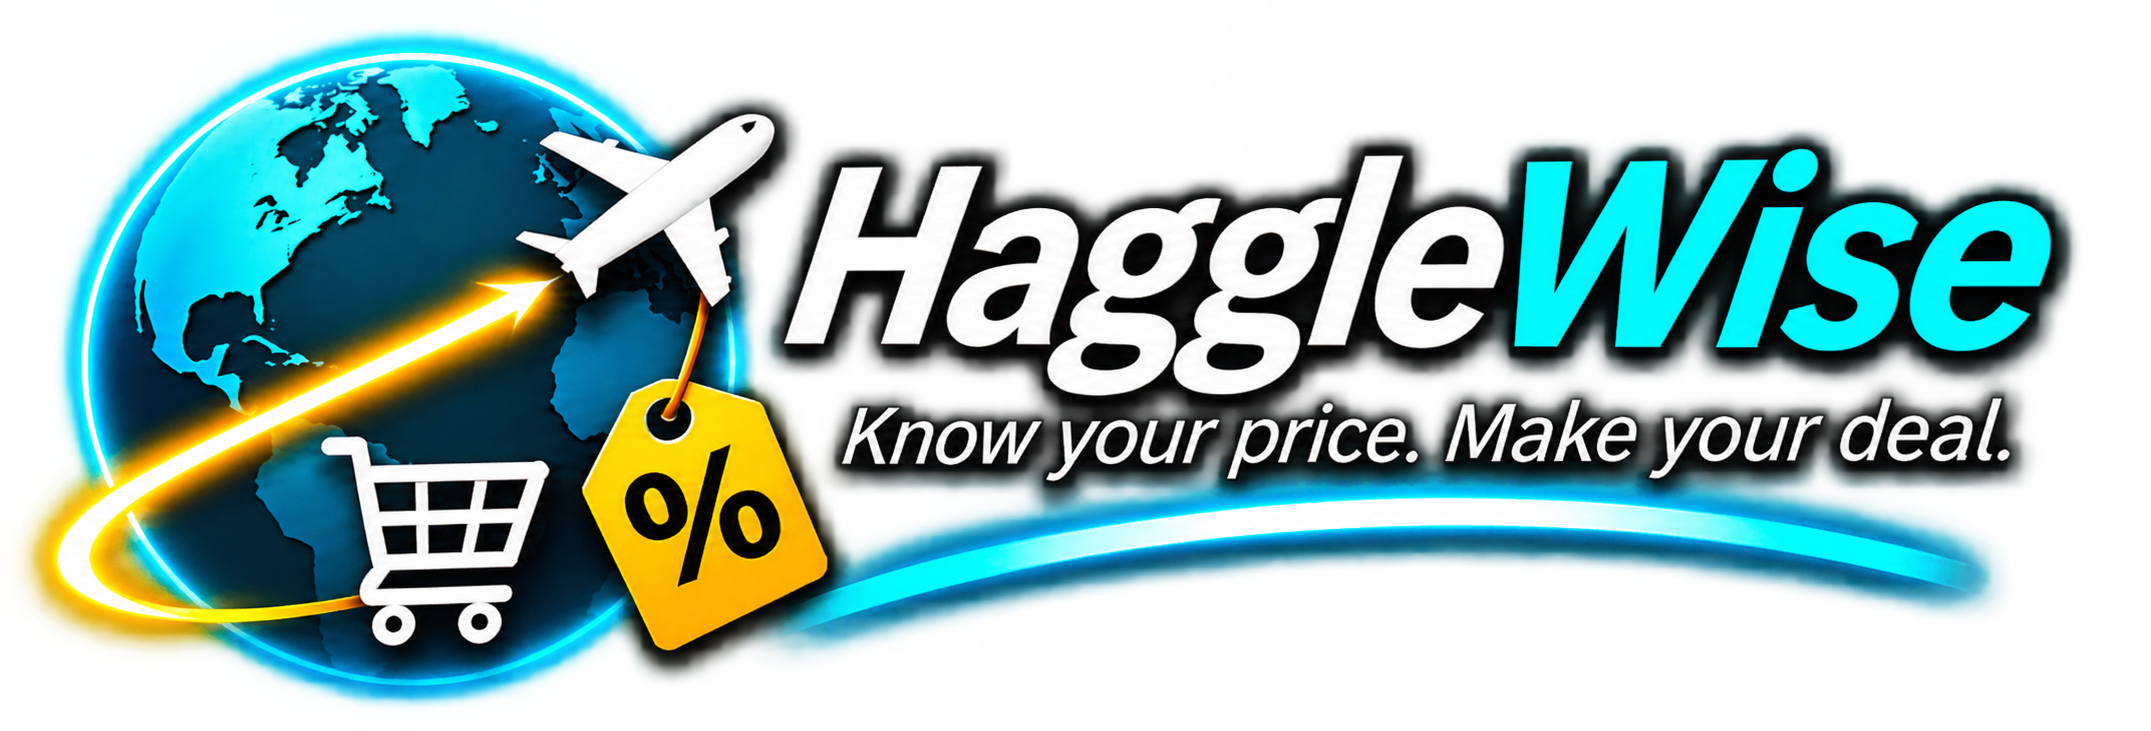
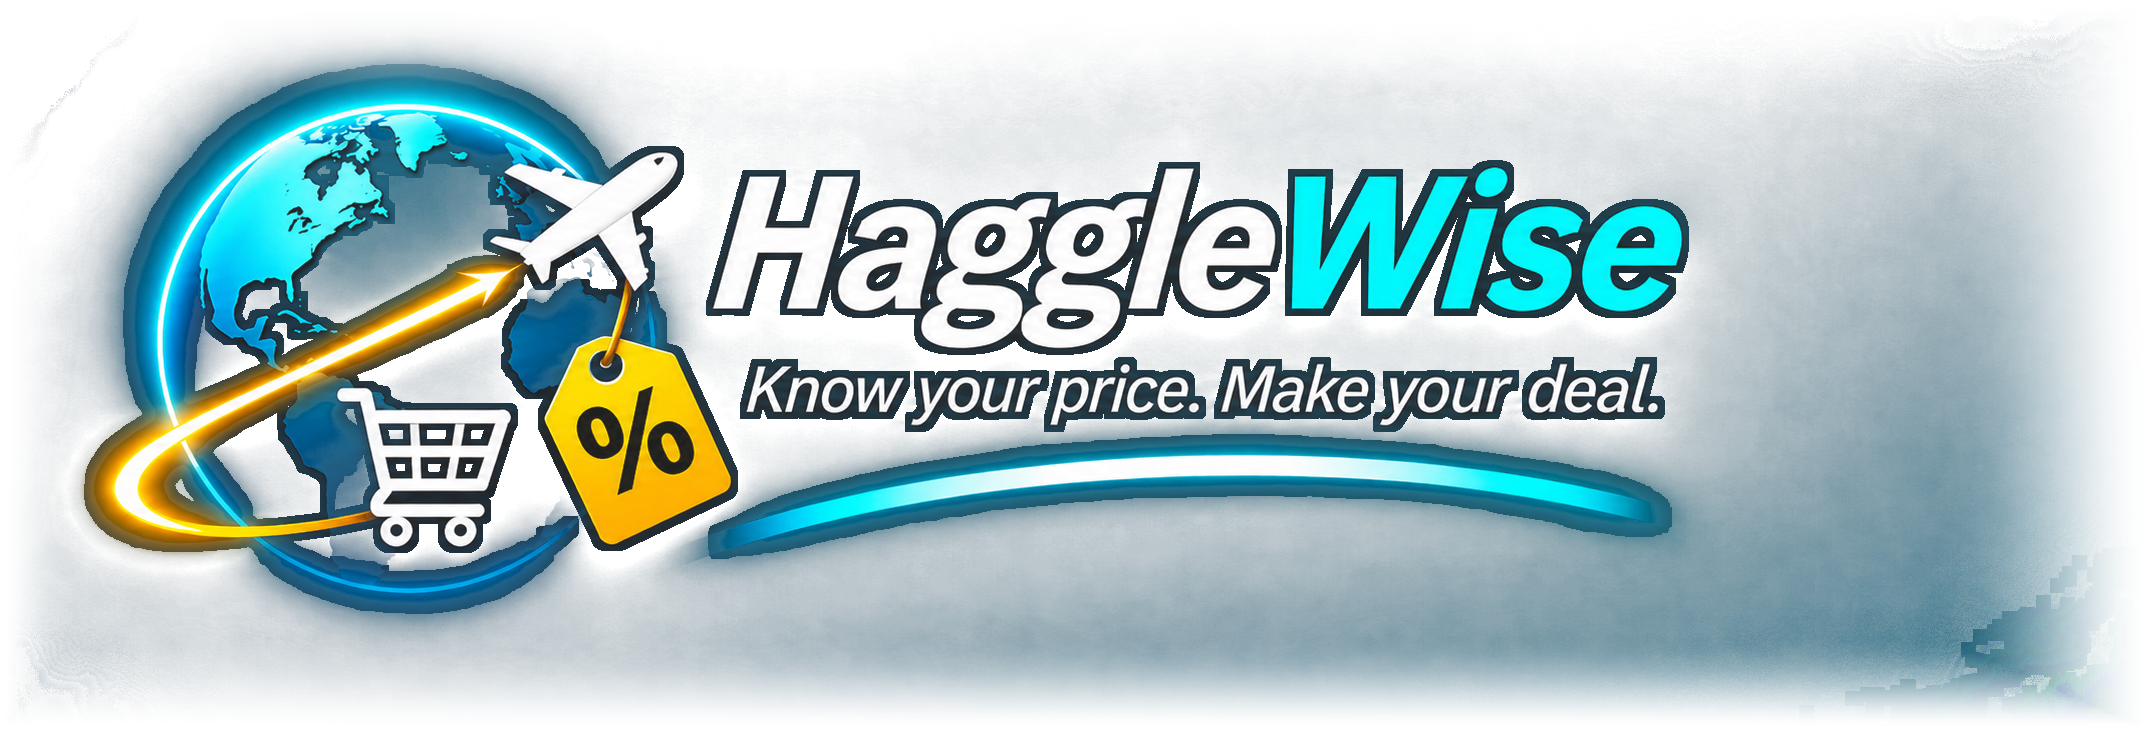
Add files via upload

diff --git a/index.html b/index.html
@@ -1,7 +1,7 @@
 <!doctype html><html lang="en"><head><meta charset="utf-8"><meta name="viewport" content="width=device-width,initial-scale=1,viewport-fit=cover"><meta name="theme-color" content="#061b34"><title>HaggleWise | Know your price. Make your deal.</title><meta name="description" content="HaggleWise helps you compare shop prices, haggle with confidence and convert currencies worldwide, even offline."><meta property="og:type" content="website"><meta property="og:title" content="HaggleWise"><meta property="og:description" content="Compare holiday shop prices, haggle with confidence and see what you spend at home. Works offline."><meta property="og:image" content="https://chriselliott369.github.io/HaggleWise/icon-512.png"><meta property="og:url" content="https://chriselliott369.github.io/HaggleWise/"><meta name="twitter:card" content="summary"><meta name="twitter:title" content="HaggleWise"><meta name="twitter:image" content="https://chriselliott369.github.io/HaggleWise/icon-512.png"><link rel="manifest" href="./manifest.webmanifest?v=1-2-4"><link rel="icon" href="./icon-192.png?v=1-2-4"><style>
 :root{font-family:system-ui,-apple-system,Segoe UI,sans-serif;color:#17324d;background:#f2f7fc}*{box-sizing:border-box}body{margin:0}.app{max-width:560px;margin:auto;padding:16px 15px 36px}header{background:linear-gradient(125deg,#123b61,#087b8a);color:white;border-radius:22px;padding:20px;box-shadow:0 8px 22px #123b6122}.head{display:flex;justify-content:space-between;align-items:center;gap:10px}h1{font-size:1.35rem;margin:0 0 4px}header p{margin:0;opacity:.9;font-size:.85rem}button,input{font:inherit}button{cursor:pointer;touch-action:manipulation}#share{background:#ffffff2b;color:white;border:1px solid #ffffff55;border-radius:12px;padding:10px 13px;font-weight:700;white-space:nowrap}.panel{background:white;border-radius:20px;margin-top:15px;padding:17px;box-shadow:0 4px 16px #1b46600c}.intro{font-size:.84rem;color:#567187;line-height:1.5;margin:0 0 12px}.currency-tabs{display:grid;grid-template-columns:repeat(3,minmax(0,1fr));gap:7px}.tab{border:2px solid transparent;background:#edf4f9;border-radius:14px;padding:9px 3px 10px;min-width:0;text-align:center}.tab.active{background:#dff7f0;border-color:#0d8d7d}.tab .role{display:block;font-size:.7rem;font-weight:800;line-height:1.3;min-height:28px}.tab .code{display:block;font-size:.93rem;font-weight:800;margin-top:3px}.choose{display:block;width:100%;border:0;background:#ffffffb5;border-radius:8px;padding:5px 2px;margin-top:6px;color:#176b75;font-size:.72rem;font-weight:700}.entry{background:#f1fbf8;border:1px solid #b4dcd2;border-radius:15px;padding:13px;margin-top:13px}.entry .eyebrow{font-size:.78rem;font-weight:800}.entry .big{font-size:2.1rem;font-weight:800;margin:7px 0;overflow-wrap:anywhere;font-variant-numeric:tabular-nums}.entry .hint{font-size:.77rem;color:#58758a}.result{display:grid;grid-template-columns:1fr 1fr;gap:9px;margin-top:11px}.result>div{border:1px solid #dce9f1;border-radius:12px;padding:10px;min-width:0}.result .name{font-size:.74rem;font-weight:750;color:#496a7d}.result .value{font-size:1.15rem;font-weight:800;overflow-wrap:anywhere;margin-top:5px}.keypad{display:grid;grid-template-columns:repeat(3,1fr);gap:8px;margin-top:13px}.keypad button{background:#eaf2f8;color:#17324d;border:0;border-radius:12px;padding:12px;min-height:48px;font-size:1.35rem;font-weight:750}.keypad .clear{background:#fff3d8;font-size:.94rem}.keypad .delete{background:#ffece7;font-size:.94rem}.small{font-size:.8rem;color:#567187;line-height:1.5}.actions{display:flex;gap:8px;flex-wrap:wrap}.actions button{border:0;border-radius:11px;background:#e5f4f2;color:#125a57;padding:11px 13px;font-weight:750}.actions button:disabled{opacity:.6}.rates summary{font-weight:750;cursor:pointer;padding:3px 0}.status{font-size:.81rem;color:#496a7d;line-height:1.5;margin:10px 0}.warn{background:#fff5df;color:#85551d;padding:12px;border-radius:11px;font-size:.8rem;line-height:1.45}.foot{text-align:center;font-size:.77rem;color:#60798b;margin:19px 0}.rate-row{display:grid;grid-template-columns:1fr 1fr;gap:10px;align-items:center;margin:10px 0}.rate-row input{width:100%;border:1px solid #a8c0d0;border-radius:10px;padding:10px}.rate-row label{font-size:.86rem;font-weight:650}.tiny{font-size:.75rem;color:#647f8e;line-height:1.45}.source a{color:#087b8a}dialog{width:min(94vw,430px);max-height:82vh;border:0;border-radius:18px;padding:16px;box-shadow:0 14px 45px #122c4655}dialog::backdrop{background:#0c253b99}.picker-head{display:flex;justify-content:space-between;align-items:center}.picker-head button{border:0;background:#eaf2f8;border-radius:8px;padding:8px 12px}#currencySearch{width:100%;border:1px solid #abc7d5;border-radius:10px;padding:12px;margin:12px 0;font-size:1rem}.currency-list{max-height:55vh;overflow:auto}.currency-list button{width:100%;text-align:left;padding:12px 8px;background:white;border:0;border-bottom:1px solid #e1eaf0;font-size:.94rem}.currency-list button:focus{background:#e5f4f2}
 .brand{display:flex;align-items:center;gap:10px;min-width:0}.brand-icon{width:64px;height:64px;object-fit:contain;border-radius:14px;flex-shrink:0}.brand h1{font-size:1.5rem;letter-spacing:-.03em}.brand p{font-size:.74rem;line-height:1.3}.head{align-items:center}#share{padding:10px 9px;font-size:.82rem}@media(max-width:370px){.brand-icon{width:52px;height:52px}.brand h1{font-size:1.25rem}.brand p{font-size:.68rem}} 
-/* v1.2.5: larger, readable header with a dedicated Share column */
+/* v1.2.6: larger, readable header with a dedicated Share column */
 .hero-header{
   display:flex!important;
   align-items:center!important;
@@ -32,6 +32,12 @@
   z-index:1;
 }
 
+
+/* v1.2.6: consistent currency labels and clearly illustrative placeholders */
+.hw-field-caption{display:inline-block;white-space:nowrap;max-width:100%;font-size:clamp(.75rem,3.1vw,.85rem)}
+.hw-field input::placeholder{color:#8a929a;opacity:1;font-weight:400}
+.hero-header{background:transparent!important;box-shadow:none!important}
+.hero-art-frame{background:transparent!important}
 </style><style>
 :root{background:#041e34}
 html{min-height:100%;background:#041e34}
@@ -103,16 +109,16 @@ body.hw-dark .hw-trip-details{background:#174653}
 <p class="tiny">Tap a currency button to choose which amount the keypad edits. Tap “Change” to select another currency. No phone keyboard needed.</p>
 </section>
 </div><dialog id="picker"><div class="picker-head"><strong>Choose a currency</strong><button id="closePicker" type="button">Close ✕</button></div><input id="currencySearch" placeholder="Search country, currency or code" autocomplete="off" aria-label="Search currencies"><div id="currencyList" class="currency-list"></div></dialog>
-<section id="hw-haggle" class="hw-page" hidden><div class="panel"><h2>Haggle calculator</h2><p class="hw-muted">Enter the asking price and what you actually paid, even in different currencies.</p><label class="hw-field">Asking price currency<select id="hagCurrency"></select></label><label class="hw-field">Asking price<input id="hagAsk" type="number" min="0" step="any" inputmode="decimal" placeholder="50"></label><label class="hw-field">Payment currency<select id="hagPayCurrency"></select></label><label class="hw-field">Agreed price<input id="hagDeal" type="number" min="0" step="any" inputmode="decimal" placeholder="35"></label><div class="hw-highlight" id="hagOutcome" aria-live="polite">Enter both prices to calculate your savings.</div><button class="hw-primary" id="hagRecord">Save this deal to history</button></div></section>
+<section id="hw-haggle" class="hw-page" hidden><div class="panel"><h2>Haggle calculator</h2><p class="hw-muted">Enter the asking price and what you actually paid, even in different currencies.</p><label class="hw-field">Asking price currency<select id="hagCurrency"></select></label><label class="hw-field">Asking price<input id="hagAsk" type="number" min="0" step="any" inputmode="decimal" placeholder="e.g. 50"></label><label class="hw-field">Payment currency<select id="hagPayCurrency"></select></label><label class="hw-field">Agreed price<input id="hagDeal" type="number" min="0" step="any" inputmode="decimal" placeholder="e.g. 35"></label><div class="hw-highlight" id="hagOutcome" aria-live="polite">Enter both prices to calculate your savings.</div><button class="hw-primary" id="hagRecord">Save this deal to history</button></div></section>
 <section id="hw-budget" class="hw-page" hidden><div class="panel"><h2>Holiday budget</h2><p class="hw-muted">Track spending in your holiday currency, with automatic conversion into your home currency. Purchases and top-ups are saved offline.</p><p id="activeTripLabel" class="hw-mini"></p>
-<label class="hw-field">Budget in home currency (<span class="hw-home-code">GBP</span>)<input id="budgetTotal" type="number" min="0" step="any" inputmode="decimal" placeholder="1000"></label>
+<label class="hw-field"><span class="hw-field-caption">Budget in home currency (<span class="hw-home-code">GBP</span>)</span><input id="budgetTotal" type="number" min="0" step="any" inputmode="decimal" placeholder="e.g. 1000"></label>
 <label class="hw-field">Spending currency<select id="budgetCurrency"></select></label><div class="hw-highlight" id="budgetSummary"></div>
-<h3>Add a purchase</h3><label class="hw-field">Category<select id="purchaseCategory"><option>Food</option><option>Drinks</option><option>Souvenirs</option><option>Clothes</option><option>Transport</option><option>Activities</option><option>Shopping</option><option>Other</option></select></label><label class="hw-field">What did you buy? (optional)<input id="purchaseName" maxlength="90" placeholder="e.g. Fridge magnet"></label><label class="hw-field">Amount spent (<span class="hw-spend-code">TRY</span>)<input id="purchaseAmount" type="number" min="0" step="any" inputmode="decimal" placeholder="1500"></label><p id="purchaseEstimate" class="hw-mini"></p><button class="hw-primary" id="purchaseAdd">Add purchase</button>
-<h3>Add more spending money</h3><div class="hw-row"><label class="hw-field">Top-up amount<input id="topupAmount" type="number" min="0" step="any" inputmode="decimal" placeholder="200"></label><label class="hw-field">Currency<select id="topupCurrency"></select></label></div><button id="topupAdd" class="hw-secondary">Add to budget</button>
+<h3>Add a purchase</h3><label class="hw-field">Category<select id="purchaseCategory"><option>Food</option><option>Drinks</option><option>Souvenirs</option><option>Clothes</option><option>Transport</option><option>Activities</option><option>Shopping</option><option>Other</option></select></label><label class="hw-field">What did you buy? (optional)<input id="purchaseName" maxlength="90" placeholder="e.g. Fridge magnet"></label><label class="hw-field"><span class="hw-field-caption">Amount spent (<span class="hw-spend-code">TRY</span>)</span><input id="purchaseAmount" type="number" min="0" step="any" inputmode="decimal" placeholder="e.g. 1500"></label><p id="purchaseEstimate" class="hw-mini"></p><button class="hw-primary" id="purchaseAdd">Add purchase</button>
+<h3>Add more spending money</h3><div class="hw-row"><label class="hw-field">Top-up amount<input id="topupAmount" type="number" min="0" step="any" inputmode="decimal" placeholder="e.g. 200"></label><label class="hw-field">Currency<select id="topupCurrency"></select></label></div><button id="topupAdd" class="hw-secondary">Add to budget</button>
 <h3>Purchases & top-ups</h3><ul class="hw-list" id="purchaseList"></ul><p class="hw-muted">Amounts use the saved exchange rate at the time of each purchase. Actual card or cash exchange rates may differ.</p></div></section>
 <section id="hw-history" class="hw-page" hidden><div class="panel"><h2>History</h2><p class="hw-muted">Conversions, saved haggles, purchases and budget top-ups, all in one place. Choose a filter to view or remove saved records. Purchases and top-ups also affect their holiday budgets.</p><button class="hw-primary" id="historySave">Save current conversion</button><label class="hw-field">Show<select id="historyFilter"><option value="all">All activity</option><option value="conversion">Conversions</option><option value="haggle">Haggles</option><option value="purchase">Purchases</option><option value="topup">Budget top-ups</option></select></label><ul class="hw-list" id="historyList"></ul><button class="hw-secondary" id="historyClear">Clear all activity</button></div></section>
 <section id="hw-more" class="hw-page" hidden><div class="panel"><h2>More & settings</h2><label class="hw-field">Appearance<select id="themeSelect"><option value="light">Light Mode</option><option value="dark">Dark Mode</option><option value="system">Phone Default</option></select></label><p id="networkStatus" class="hw-muted" role="status"></p><p id="rateMovement" class="hw-muted"></p><div class="hw-flex"><button id="copyAmount" class="hw-secondary">Copy current amount</button><button id="resetCalc" class="hw-secondary">Reset converter</button></div><div class="hw-flex" style="margin-top:10px"><button id="exportData" class="hw-secondary">Export backup</button><label class="hw-secondary" style="text-align:center;cursor:pointer">Import backup<input id="importData" type="file" accept="application/json,.json" style="display:none"></label></div><p class="hw-muted">Backups include saved settings, purchases and history. Keep your backup file somewhere safe. Import replaces saved data on this device.</p><button id="installBtn" class="hw-secondary" hidden>Install HaggleWise</button><button id="shareMore" class="hw-secondary">Share / QR code</button><h3>My holidays</h3><p class="hw-muted">Archive a holiday and start fresh without losing your past trips.</p><div id="tripList"></div><label class="hw-field">New holiday name<input id="newTripName" placeholder="e.g. Spain 2029" maxlength="65"></label><button id="newTripBtn" class="hw-primary">Archive current & start new holiday</button><div id="hw-rates-slot"></div></div></section><section class="panel rates" id="hw-rate-panel"><details><summary>⚙ Exchange rates and settings</summary><p class="small">Reference market rates refresh when you open the app online. You can also refresh manually or enter your own rates. Manual rates may be replaced on the next successful automatic refresh.</p><div id="manualRates"></div><label class="hw-field"><span><input type="checkbox" id="manualLock"> Keep my manual rates until I turn this off</span></label><div class="actions"><button type="button" id="saveRates">Save manual rates</button><button type="button" id="liveRates">🔄 Refresh live rates</button></div><p id="liveStatus" class="status" role="status" aria-live="polite"></p><p id="rateStatus" class="status" role="status"></p></details><p id="lastRefresh" class="status">🕒 Last successful refresh: not yet recorded</p><p id="marketDate" class="status">📅 Market date: not yet recorded</p>
-<p class="status source">📡 Rate source: <a href="https://frankfurter.dev/" target="_blank" rel="noopener noreferrer">Frankfurter</a> (reference exchange rates). Manual changes are labelled separately.</p><p class="warn">📌 Market rates are estimates, not guaranteed shop quotes. Shops, cash exchanges and cards may use different rates or charge fees.</p></section><p class="foot">Works offline with your saved rates. No account needed.</p><p class="foot" style="font-size:11px;opacity:.65;margin-top:6px">HaggleWise · v1.2.5</p></main>
+<p class="status source">📡 Rate source: <a href="https://frankfurter.dev/" target="_blank" rel="noopener noreferrer">Frankfurter</a> (reference exchange rates). Manual changes are labelled separately.</p><p class="warn">📌 Market rates are estimates, not guaranteed shop quotes. Shops, cash exchanges and cards may use different rates or charge fees.</p></section><p class="foot">Works offline with your saved rates. No account needed.</p><p class="foot" style="font-size:11px;opacity:.65;margin-top:6px">HaggleWise · v1.2.6</p></main>
 <dialog id="hwConfirm" class="hw-confirm" aria-labelledby="confirmTitle"><h3 id="confirmTitle">Please confirm</h3><p id="confirmMessage"></p><div class="hw-dialog-actions"><button id="confirmNo" type="button">Cancel</button><button id="confirmYes" type="button">Confirm</button></div></dialog>
 <script>
 (()=>{'use strict';const $=id=>document.getElementById(id);const KEY='holidayV6',RATEKEY='holidayRatesV5',TIMEKEY='turkeyLastLiveRefreshV4';const fallback={GBP:1,EUR:1.197,TRY:66.5};const popular=['EUR','TRY','GBP','USD','AED','AUD','BRL','CAD','CHF','CNY','CZK','DKK','EGP','HKD','HUF','IDR','ILS','INR','ISK','JPY','KRW','MAD','MXN','MYR','NOK','NZD','PHP','PLN','RON','SAR','SEK','SGD','THB','TND','ZAR'];const flags={EUR:'🇪🇺',TRY:'🇹🇷',GBP:'🇬🇧',USD:'🇺🇸',AED:'🇦🇪',AUD:'🇦🇺',BRL:'🇧🇷',CAD:'🇨🇦',CHF:'🇨🇭',CNY:'🇨🇳',CZK:'🇨🇿',DKK:'🇩🇰',EGP:'🇪🇬',HKD:'🇭🇰',HUF:'🇭🇺',IDR:'🇮🇩',ILS:'🇮🇱',INR:'🇮🇳',ISK:'🇮🇸',JPY:'🇯🇵',KRW:'🇰🇷',MAD:'🇲🇦',MXN:'🇲🇽',MYR:'🇲🇾',NOK:'🇳🇴',NZD:'🇳🇿',PHP:'🇵🇭',PLN:'🇵🇱',RON:'🇷🇴',SAR:'🇸🇦',SEK:'🇸🇪',SGD:'🇸🇬',THB:'🇹🇭',TND:'🇹🇳',ZAR:'🇿🇦'};

diff --git a/sw.js b/sw.js
@@ -1,1 +1,1 @@
-const CACHE='hagglewise-v1-2-5';const ASSETS=['./','./index.html','./manifest.webmanifest','./icon-192.png','./icon-512.png','./header-art.png'];self.addEventListener('install',event=>{event.waitUntil(caches.open(CACHE).then(cache=>cache.addAll(ASSETS)).then(()=>self.skipWaiting()))});self.addEventListener('activate',event=>{event.waitUntil(Promise.all([caches.keys().then(keys=>Promise.all(keys.filter(key=>key!==CACHE).map(key=>caches.delete(key)))),self.clients.claim()]))});self.addEventListener('fetch',event=>{const req=event.request;if(req.method!=='GET'||new URL(req.url).origin!==self.location.origin)return;if(req.mode==='navigate'){event.respondWith(fetch(req).then(res=>{if(res.ok){const copy=res.clone();caches.open(CACHE).then(cache=>cache.put('./index.html',copy))}return res}).catch(()=>caches.match('./index.html')));return}event.respondWith(caches.match(req).then(cached=>cached||fetch(req)))});
+const CACHE='hagglewise-v1-2-6';const ASSETS=['./','./index.html','./manifest.webmanifest','./icon-192.png','./icon-512.png','./header-art.png'];self.addEventListener('install',event=>{event.waitUntil(caches.open(CACHE).then(cache=>cache.addAll(ASSETS)).then(()=>self.skipWaiting()))});self.addEventListener('activate',event=>{event.waitUntil(Promise.all([caches.keys().then(keys=>Promise.all(keys.filter(key=>key!==CACHE).map(key=>caches.delete(key)))),self.clients.claim()]))});self.addEventListener('fetch',event=>{const req=event.request;if(req.method!=='GET'||new URL(req.url).origin!==self.location.origin)return;if(req.mode==='navigate'){event.respondWith(fetch(req).then(res=>{if(res.ok){const copy=res.clone();caches.open(CACHE).then(cache=>cache.put('./index.html',copy))}return res}).catch(()=>caches.match('./index.html')));return}event.respondWith(caches.match(req).then(cached=>cached||fetch(req)))});
